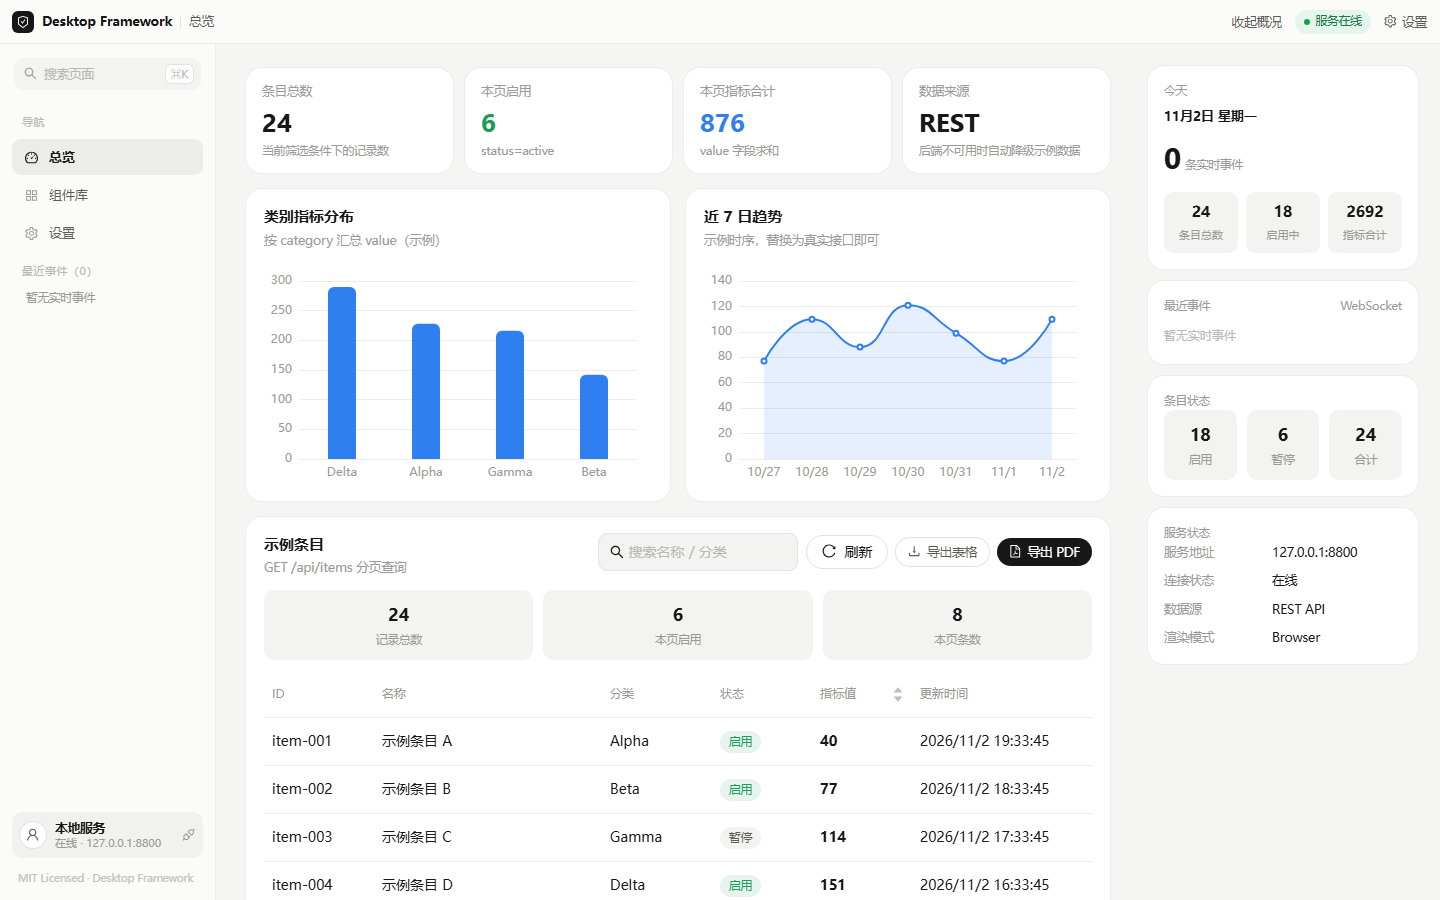
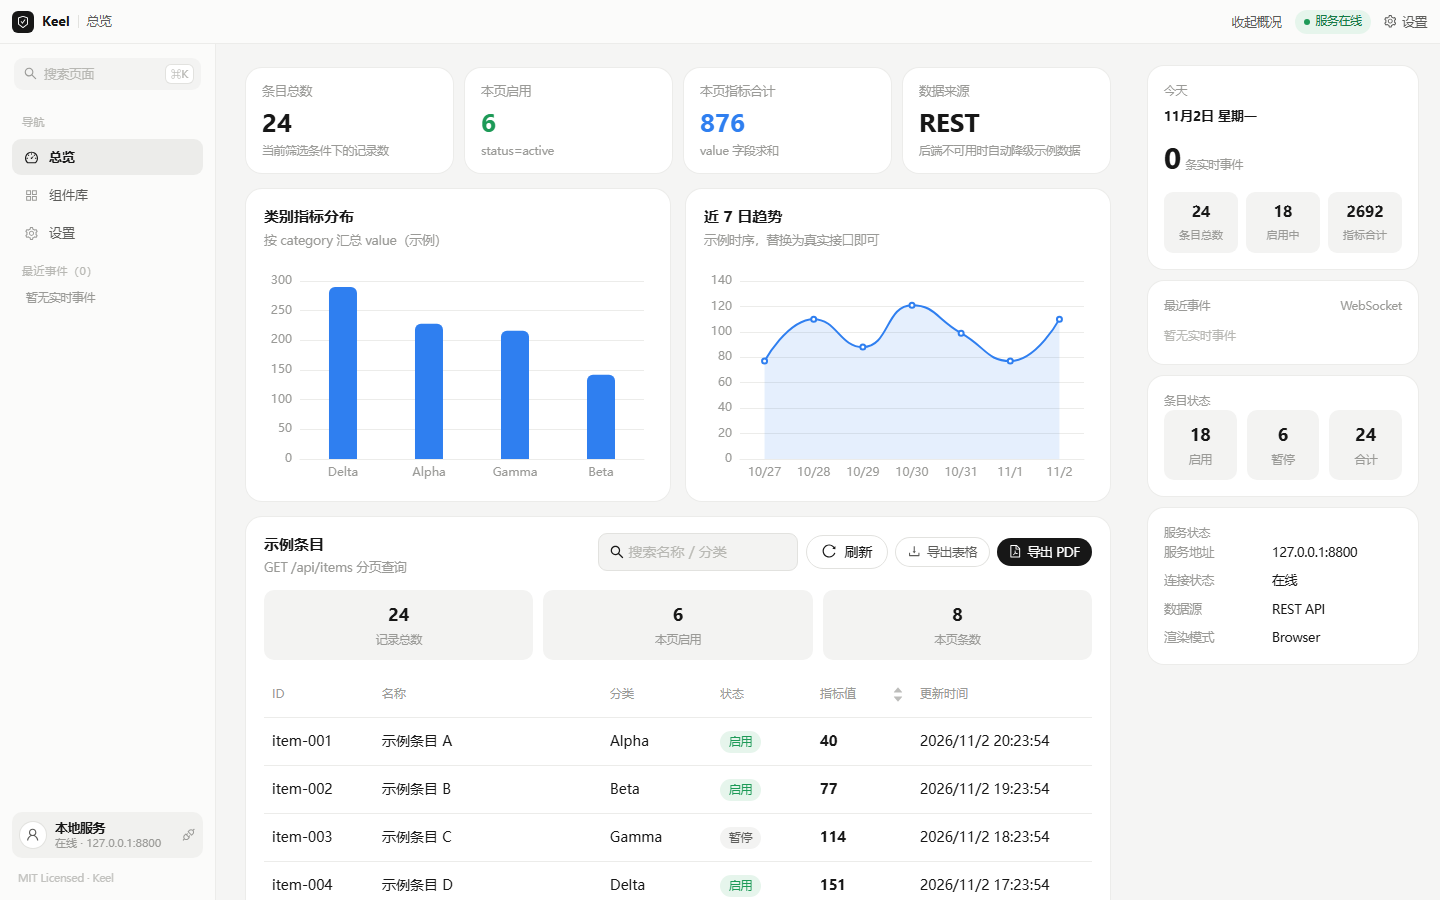
refactor: rename project to Keel
- Rename GitHub repository from electron-react-desktop-framework to keel
- Rebrand window title, title bar, package metadata and service names to Keel
- Update all READMEs, license and builder config with the new name and URLs
- Regenerate UI screenshots with the updated branding

diff --git a/src/renderer/src/layouts/MainLayout.tsx b/src/renderer/src/layouts/MainLayout.tsx
@@ -52,7 +52,7 @@ export default function MainLayout(): JSX.Element {
   const searchRef = useRef<HTMLInputElement>(null)
 
   const pathname = location.pathname
-  const meta = ROUTE_META[pathname] ?? { title: 'Desktop Framework', desc: '' }
+  const meta = ROUTE_META[pathname] ?? { title: 'Keel', desc: '' }
   const showRail = pathname === '/overview'
 
   // 服务健康探测
@@ -216,7 +216,7 @@ export default function MainLayout(): JSX.Element {
             </div>
             <ApiOutlined className="gear" />
           </button>
-          <div className="sign">MIT Licensed · Desktop Framework</div>
+          <div className="sign">MIT Licensed · Keel</div>
         </div>
       </aside>
 

diff --git a/src/renderer/index.html b/src/renderer/index.html
@@ -7,7 +7,7 @@
       http-equiv="Content-Security-Policy"
       content="default-src 'self'; script-src 'self'; style-src 'self' 'unsafe-inline'; img-src 'self' data: blob:; connect-src 'self' ws://127.0.0.1:* http://127.0.0.1:* ws://localhost:* http://localhost:*; media-src 'self' blob:"
     />
-    <title>Desktop Framework</title>
+    <title>Keel</title>
   </head>
   <body>
     <div id="root"></div>

diff --git a/src/renderer/src/components/TitleBar.tsx b/src/renderer/src/components/TitleBar.tsx
@@ -60,7 +60,7 @@ export default function TitleBar({
         <span className="tb-mark">
           <SafetyCertificateOutlined />
         </span>
-        <span className="tb-brand">Desktop Framework</span>
+        <span className="tb-brand">Keel</span>
         <span className="tb-sep" />
         <span className="tb-page">{title}</span>
       </div>

diff --git a/src/renderer/src/styles.css b/src/renderer/src/styles.css
@@ -1,5 +1,5 @@
 /* ============================================================
-   Desktop Framework · 设计系统样式（令牌与 theme.ts 一一对应）
+   Keel · 设计系统样式（令牌与 theme.ts 一一对应）
    ============================================================ */
 
 :root {

diff --git a/src/renderer/src/utils/export.ts b/src/renderer/src/utils/export.ts
@@ -82,6 +82,6 @@ export function buildSimpleReportHtml(title: string, bodyHtml: string): string {
   <h1>${title}</h1>
   <div class="meta">生成时间：${time}</div>
   ${bodyHtml}
-  <footer>Desktop Framework · 示例报告</footer>
+  <footer>Keel · 示例报告</footer>
 </body></html>`
 }

diff --git a/src/main/index.ts b/src/main/index.ts
@@ -17,7 +17,7 @@ function createWindow(): BrowserWindow {
     frame: false,
     autoHideMenuBar: true,
     backgroundColor: '#f5f5f4',
-    title: 'Desktop Framework',
+    title: 'Keel',
     webPreferences: {
       preload: join(__dirname, '../preload/index.js'),
       sandbox: false,

diff --git a/src/renderer/src/mock/demo.ts b/src/renderer/src/mock/demo.ts
@@ -52,7 +52,7 @@ export function mockHealth(): HealthInfo {
 
 export function mockInfo(): ServiceInfo {
   return {
-    name: 'Desktop Framework Service',
+    name: 'Keel Service',
     version: '1.0.0',
     python: '3.10+',
     device: 'cpu',

diff --git a/ai-service/app/api/system.py b/ai-service/app/api/system.py
@@ -34,7 +34,7 @@ def system_health() -> HealthInfo:
 @router.get("/api/system/info", response_model=ServiceInfo)
 def system_info() -> ServiceInfo:
     return ServiceInfo(
-        name="Desktop Framework Service",
+        name="Keel Service",
         version=VERSION,
         python=sys.version.split()[0],
         device=platform.machine(),

diff --git a/ai-service/app/main.py b/ai-service/app/main.py
@@ -26,7 +26,7 @@ async def lifespan(app: FastAPI):
     logger.info("服务已停止")
 
 
-app = FastAPI(title="Desktop Framework Service", version="1.0.0", lifespan=lifespan)
+app = FastAPI(title="Keel Service", version="1.0.0", lifespan=lifespan)
 
 settings = get_settings()
 app.add_middleware(

diff --git a/README.en.md b/README.en.md
@@ -1,8 +1,8 @@
 <p align="center">
-  <img src="docs/images/logo.png" width="84" alt="Desktop Framework logo" />
+  <img src="docs/images/logo.png" width="84" alt="Keel logo" />
 </p>
 
-<h1 align="center">Desktop Framework</h1>
+<h1 align="center">Keel</h1>
 
 <p align="center">Electron + React + TypeScript desktop application framework</p>
 
@@ -18,8 +18,8 @@
   <img alt="TypeScript" src="https://img.shields.io/badge/TypeScript-5-3178C6?logo=typescript&logoColor=white" />
   <img alt="Vite" src="https://img.shields.io/badge/Vite-5-646CFF?logo=vite&logoColor=white" />
   <img alt="License" src="https://img.shields.io/badge/license-MIT-green" />
-  <a href="https://github.com/gqallen931/electron-react-desktop-framework">
-    <img alt="GitHub" src="https://img.shields.io/badge/GitHub-electron--react--desktop--framework-181717?logo=github&logoColor=white" />
+  <a href="https://github.com/gqallen931/keel">
+    <img alt="GitHub" src="https://img.shields.io/badge/GitHub-keel-181717?logo=github&logoColor=white" />
   </a>
 </p>
 
@@ -29,7 +29,7 @@
 
 ### 1.1 What it is
 
-Desktop Framework is an engineering skeleton for desktop business applications. It covers four foundation layers:
+Keel is an engineering skeleton for desktop business applications. It covers four foundation layers:
 
 - **Desktop shell**: frameless window, custom title bar, window controls and system-capability IPC;
 - **UI system**: design tokens, Ant Design theme alignment, atomic components and the application shell layout;
@@ -39,7 +39,7 @@ Desktop Framework is an engineering skeleton for desktop business applications. 
 A sample entity (items) demonstrates the full path from API to page. The sample contains no industry rules, real data or
 third-party credentials; removing it leaves a blank engineering skeleton.
 
-Repository: https://github.com/gqallen931/electron-react-desktop-framework
+Repository: https://github.com/gqallen931/keel
 
 ### 1.2 Where it fits
 
@@ -420,8 +420,8 @@ Screenshots are taken from the running application (1440×900, sample data).
 
 ```bash
 # clone the repository
-git clone git@github.com:gqallen931/electron-react-desktop-framework.git
-cd electron-react-desktop-framework
+git clone git@github.com:gqallen931/keel.git
+cd keel
 
 # install frontend dependencies
 npm install
